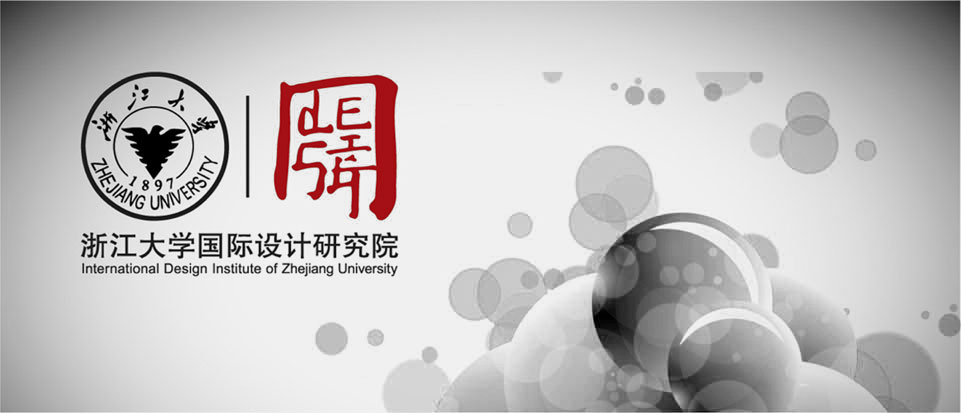
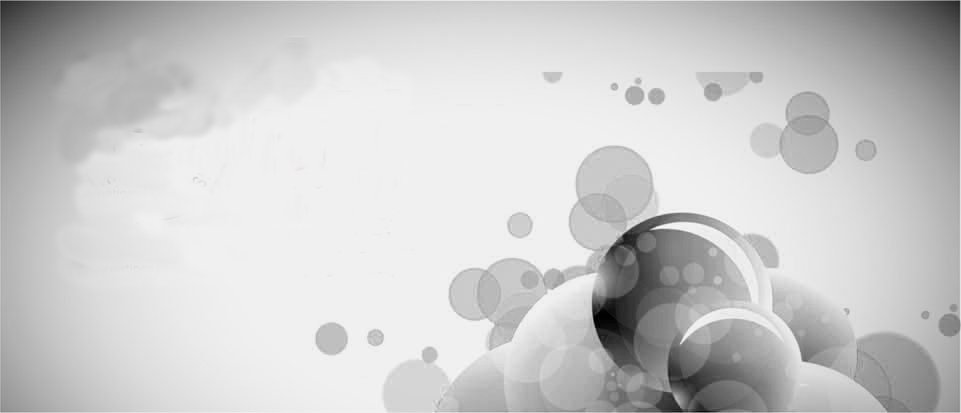
add scroll difference

Changed region(s): [[0.0624, 0.1743, 0.437, 0.6683]]

diff --git a/js/main.js b/js/main.js
@@ -20,9 +20,12 @@ $(document).ready(function(){
 	//banner animation start
 
 	$("#img1").show(1000);//img1 enter view
-	
+	setTimeout(function(){
+		$("#float1").animate({left:'10%'},400)
+	},1500);//float1 enter view
 	setTimeout(function(){
 		$("#img1").animate({left:-w},500);
+		$("#float1").animate({left:-w},500);
 		$("#img6").hide().css({"left":w});
 	},5000);//img1 leave view
 	setTimeout(function(){
@@ -36,12 +39,19 @@ $(document).ready(function(){
 		$("#img3").show().animate({left:'0'},500)
 	},7800);//img3 enter view
 	setTimeout(function(){
+		$("#float3").animate({left:'10%'},400);
+	},8400)
+	setTimeout(function(){
 		$("#img3").animate({left:-w},500)
+		$("#float3").animate({left:-w},500)
 		$("#img2").hide().css({"left":w});
 	},11000);//img3 leave view
 	setTimeout(function(){
 		$("#img4").show().animate({left:'0'},500)
 	},10800);//img4 enter view
+	setTimeout(function(){
+		$("#float4").animate({left:'-20%'},2000)
+	},11100)//float enter and leave
 	setTimeout(function(){
 		$("#img4").animate({left:-w},500)
 		$("#img3").hide().css({"left":w});

diff --git a/css/style.css b/css/style.css
@@ -80,7 +80,24 @@ body {
 	display:none;
 	position: absolute;
 }
-
+#float1{
+	position: absolute;
+	left:100%;
+	top:22%;
+	z-index: 10;
+}
+#float3{
+	position: absolute;
+	top:35%;
+	left:100%;
+	z-index: 10;
+}
+#float4{
+	position: absolute;
+	top:60%;
+	left:100%;
+	z-index: 10;
+}
 .middle{
 	background-color: #7F2B20;
 	bottom: 0;

diff --git a/index.html b/index.html
@@ -56,6 +56,9 @@
 	</div>
 
 	<div class="slider">
+		<img id="float1" src="./img/float1.png" />
+		<img id="float3" src="./img/float3.png" />
+		<img id="float4" src="./img/float4.png" />
 		<ul>
 			<li id="img1"><img class="sliderimg" src="./img/1.jpg" /></li>
 			<li id="img2"><img class="sliderimg" src="./img/2.jpg" /></li>
